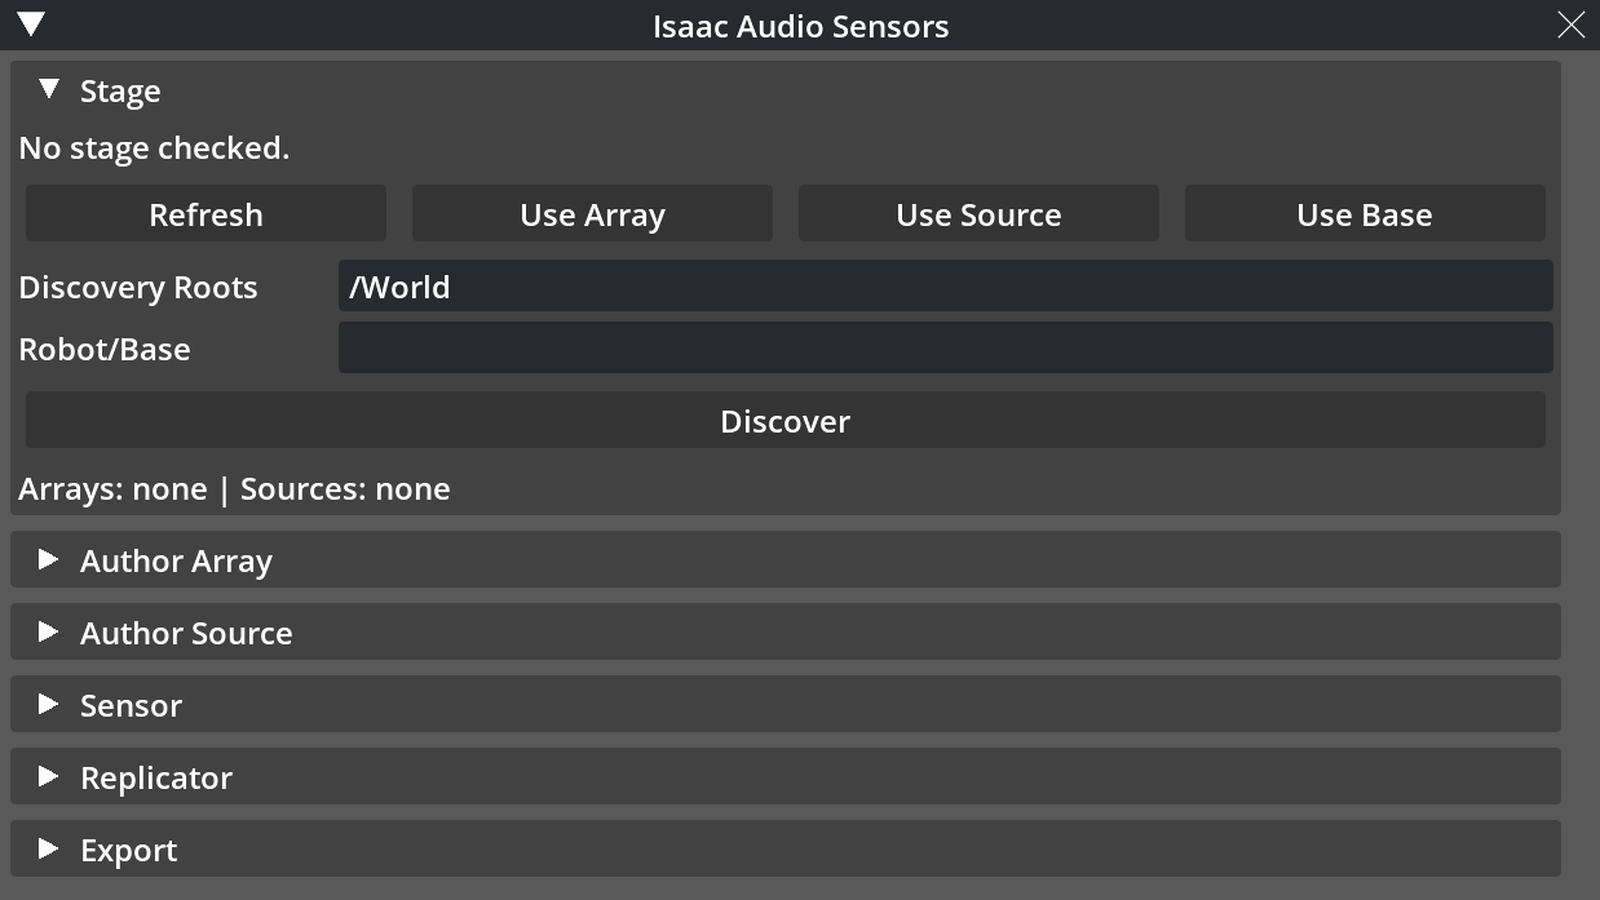
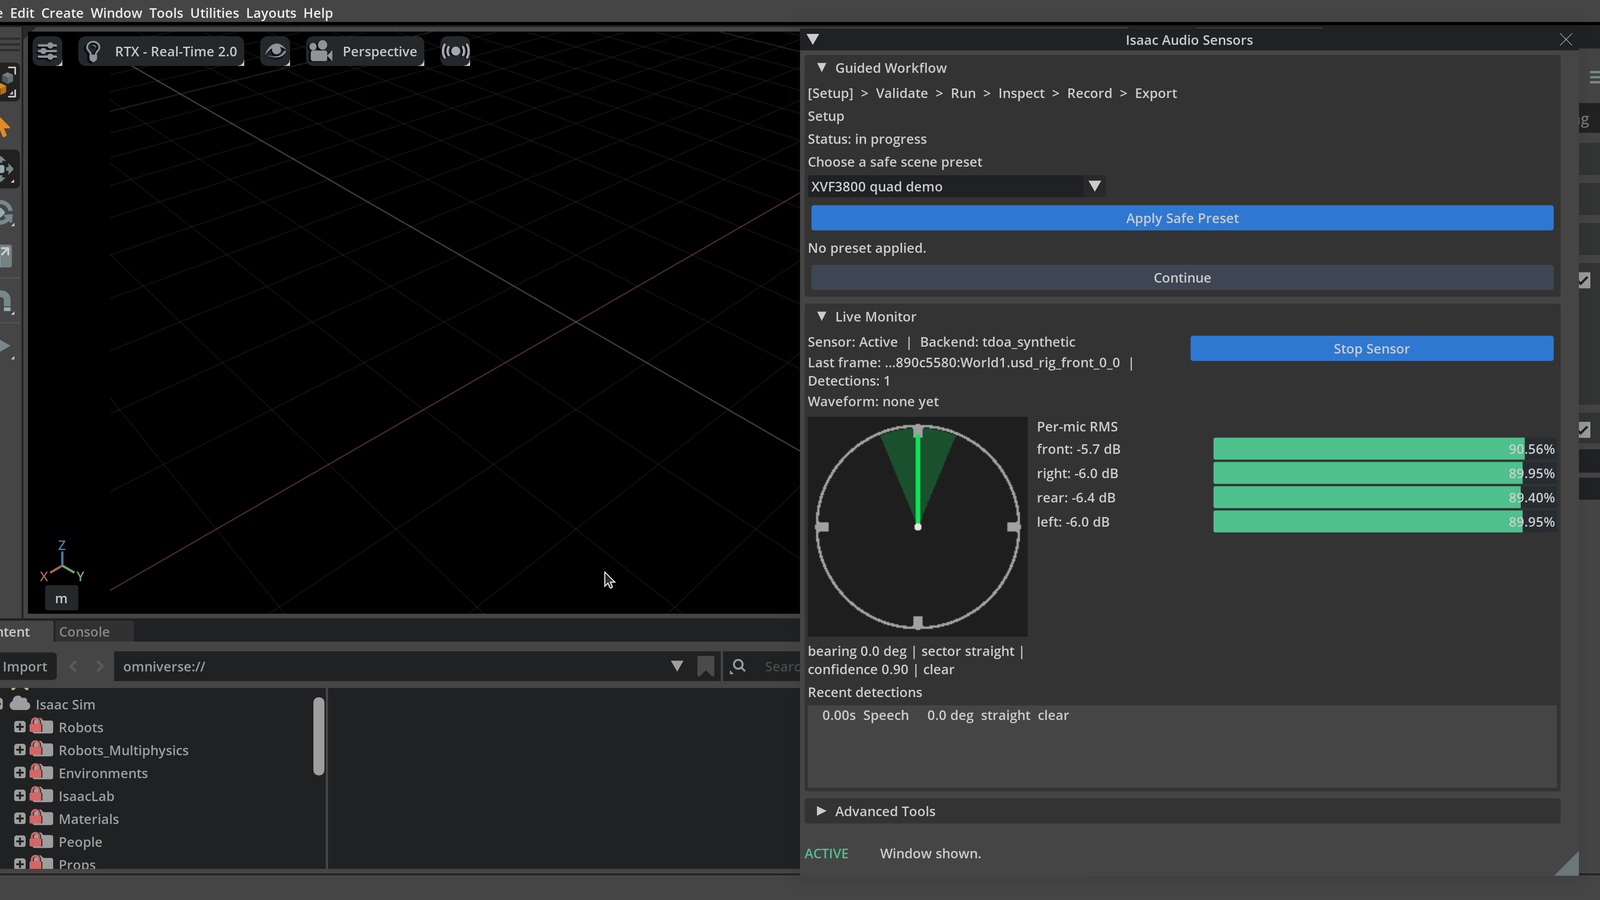
Document and preview redesigned Kit UI

diff --git a/tools/smoke/live_omniverse_extension_ux.py b/tools/smoke/live_omniverse_extension_ux.py
@@ -309,7 +309,7 @@ def main() -> int:
             extension_id=EXTENSION_ID,
         )
         evidence["ui_editable_model_probe"] = _probe_ui_editable_models(controller)
-        evidence["ui_invalid_numeric_probe"] = _probe_ui_invalid_numeric(controller)
+        evidence["ui_numeric_widget_probe"] = _probe_ui_numeric_widgets(controller)
         evidence["export_latest_without_frame"] = _probe_export_latest_without_frame(
             controller
         )
@@ -1483,14 +1483,14 @@ def _probe_ui_editable_models(controller: ExtensionController) -> dict[str, Any]
         or object_path is None
     ):
         return {"status": "failed", "reason": "expected editable fields missing"}
-    duration.model.set_value("10.0")
-    position_x.model.set_value("2.0")
-    position_y.model.set_value("0.0")
-    position_z.model.set_value("0.0")
-    local_offset_x.model.set_value("0.0")
-    local_offset_y.model.set_value("0.0")
-    local_offset_z.model.set_value("0.0")
-    sample_rate.model.set_value("44100")
+    duration.model.set_value(10.0)
+    position_x.model.set_value(2.0)
+    position_y.model.set_value(0.0)
+    position_z.model.set_value(0.0)
+    local_offset_x.model.set_value(0.0)
+    local_offset_y.model.set_value(0.0)
+    local_offset_z.model.set_value(0.0)
+    sample_rate.model.set_value(44100)
     source_id.model.set_value("speaker_a")
     object_path.model.set_value("/World/Oven")
     window.sync_state_from_widgets()
@@ -1518,40 +1518,46 @@ def _probe_ui_editable_models(controller: ExtensionController) -> dict[str, Any]
     }
 
 
-def _probe_ui_invalid_numeric(controller: ExtensionController) -> dict[str, Any]:
+def _probe_ui_numeric_widgets(controller: ExtensionController) -> dict[str, Any]:
     window = _reference_ui_window(controller)
     if window is None:
         return {"status": "failed", "reason": "ui_window_unavailable"}
     duration = window._float_fields.get("source_duration_s")
-    if duration is None:
-        return {"status": "failed", "reason": "source_duration_s field missing"}
-    previous = _model_string(duration.model)
-    called = {"value": False}
-
-    def _callback() -> str:
-        called["value"] = True
-        return "called"
-
-    duration.model.set_value("not-a-number")
-    window._action(_callback)()
-    error = controller.state.error_message
+    sample_rate = window._int_fields.get("sample_rate_hz")
+    if duration is None or sample_rate is None:
+        return {"status": "failed", "reason": "numeric fields missing"}
+    previous_duration = controller.state.source_duration_s
+    previous_sample_rate = controller.state.sample_rate_hz
     restore_error = None
     try:
-        duration.model.set_value(previous or "10.0")
+        duration.model.set_value(2.5)
+        sample_rate.model.set_value(48000)
+        window.sync_state_from_widgets()
+        observed_duration = controller.state.source_duration_s
+        observed_sample_rate = controller.state.sample_rate_hz
+        duration.model.set_value(previous_duration)
+        sample_rate.model.set_value(previous_sample_rate)
         window.sync_state_from_widgets()
         window.refresh_labels()
     except Exception as exc:  # noqa: BLE001 - evidence should keep moving.
         restore_error = f"{type(exc).__name__}: {exc}"
+        observed_duration = None
+        observed_sample_rate = None
+    duration_kind = type(duration).__name__
+    sample_rate_kind = type(sample_rate).__name__
     passed = (
-        called["value"] is False
-        and error is not None
-        and "UI input failed" in error
+        observed_duration == 2.5
+        and observed_sample_rate == 48000
+        and "FloatDrag" in duration_kind
+        and "IntDrag" in sample_rate_kind
         and restore_error is None
     )
     return {
         "status": "passed" if passed else "failed",
-        "callback_called": called["value"],
-        "error_message": error,
+        "duration_widget_kind": duration_kind,
+        "sample_rate_widget_kind": sample_rate_kind,
+        "observed_duration": observed_duration,
+        "observed_sample_rate": observed_sample_rate,
         "restore_error": restore_error,
     }
 
@@ -2038,14 +2044,6 @@ def _combo_model_values(window: Any) -> dict[str, dict[str, Any]]:
             "state_value": getattr(window.controller.state, attr_name),
         }
     return values
-
-
-def _model_string(model: Any) -> str:
-    if hasattr(model, "get_value_as_string"):
-        return str(model.get_value_as_string())
-    if hasattr(model, "as_string"):
-        return str(model.as_string)
-    return str(getattr(model, "value", ""))
 
 
 def _combo_index(model: Any) -> int:
@@ -2948,7 +2946,7 @@ def _validate_live_extension_outputs(
         "package_origin",
         "dependency_origins",
         "ui_editable_model_probe",
-        "ui_invalid_numeric_probe",
+        "ui_numeric_widget_probe",
         "export_latest_without_frame",
         "config_roundtrip_probe",
         "instruments",

diff --git a/src/isaac_audio_sensors/kit/window.py b/src/isaac_audio_sensors/kit/window.py
@@ -74,7 +74,7 @@ class OmniReferenceWindow:
         """Build a compact task-oriented Kit window."""
 
         ui = self.ui
-        self.window = ui.Window(OMNI_WINDOW_TITLE, width=680, height=820)
+        self.window = ui.Window(OMNI_WINDOW_TITLE, width=680, height=740)
         _set_window_visibility_changed_fn(
             self.window,
             self.controller.handle_window_visibility_changed,
@@ -212,7 +212,7 @@ class OmniReferenceWindow:
         )
         self._set_label(
             "live_frame",
-            f"Last frame: {state.latest_frame_id or 'none'}  |  "
+            f"Last frame: {self._compact_identifier(state.latest_frame_id)}  |  "
             f"Detections: {state.latest_detection_count}",
         )
         self._set_label(
@@ -283,10 +283,10 @@ class OmniReferenceWindow:
             with suppress(Exception):
                 status_icon.style = {
                     "color": (
-                        0xFFEF6A61
+                        0xFF616AEF
                         if state.error_message
                         else (
-                            0xFF4FC18C if state.sensor_running else 0xFFE4B95B
+                            0xFF8CC14F if state.sensor_running else 0xFF5BB9E4
                         )
                     )
                 }
@@ -440,7 +440,16 @@ class OmniReferenceWindow:
     @staticmethod
     def _compact_status(message: str, limit: int = 150) -> str:
         summary = " ".join(str(message).split())
-        return summary if len(summary) <= limit else summary[: limit - 1] + "…"
+        return summary if len(summary) <= limit else summary[: limit - 3] + "..."
+
+    @staticmethod
+    def _compact_identifier(value: str | None, limit: int = 36) -> str:
+        identifier = value or "none"
+        return (
+            identifier
+            if len(identifier) <= limit
+            else "..." + identifier[-(limit - 3) :]
+        )
 
     @contextmanager
     def _section(
@@ -597,13 +606,14 @@ class OmniReferenceWindow:
     ) -> Any:
         self._buttons.append(label)
         colors = {
-            "primary": 0xFF2E78D2,
-            "danger": 0xFFB8473D,
-            "secondary": 0xFF3D4652,
+            "primary": 0xFFD2782E,
+            "danger": 0xFF3D47B8,
+            "secondary": 0xFF52463D,
         }
         return self.ui.Button(
             label,
             clicked_fn=self._action(callback),
+            height=28,
             style={"Button": {"background_color": colors[kind]}},
         )
 

diff --git a/src/isaac_audio_sensors/kit/sections.py b/src/isaac_audio_sensors/kit/sections.py
@@ -224,7 +224,7 @@ def build_guided_section(window: OmniReferenceWindow) -> None:
 
     def _refresh() -> None:
         current = workflow.current_stage
-        crumbs = "  →  ".join(
+        crumbs = "  >  ".join(
             f"[{stage.value.title()}]"
             if stage is current
             else stage.value.title()
@@ -741,7 +741,16 @@ def build_instruments_section(window: OmniReferenceWindow) -> None:
                 for _ in range(METER_MAX_ROWS):
                     with ui.HStack(spacing=4, height=0) as meter_row:
                         label = ui.Label("", width=150)
-                        bar = progress_cls() if progress_cls is not None else None
+                        bar = (
+                            progress_cls(
+                                style={
+                                    "background_color": 0xFF312C27,
+                                    "color": 0xFF8CC14F,
+                                }
+                            )
+                            if progress_cls is not None
+                            else None
+                        )
                     meter_row.visible = False
                     meter_rows.append({"row": meter_row, "label": label, "bar": bar})
         empty_label = ui.Label("", word_wrap=True)
@@ -759,7 +768,7 @@ def build_instruments_section(window: OmniReferenceWindow) -> None:
             with ui.VStack(spacing=1, height=0):
                 _build_timeline_rows()
         else:
-            with scrolling_cls(height=140), ui.VStack(spacing=1, height=0):
+            with scrolling_cls(height=72), ui.VStack(spacing=1, height=0):
                 _build_timeline_rows()
     window._instruments = {
         "compass": compass_image,

diff --git a/knowledge/wiki/topics/isaac-sim-and-kit.md b/knowledge/wiki/topics/isaac-sim-and-kit.md
@@ -42,21 +42,35 @@ The entrypoint exposes its `controller` and has no duplicate sensor, authoring, 
 
 Shutdown independently cancels an active recording as incomplete, stops audition, Replicator, and the sensor, clears debug/frame state, detaches workflow/window callbacks, and releases update, stage, reset, hotkey, menu, and action registrations even if one cleanup fails.
 
+## Native Kit Window
+
+The native `omni.ui` window has exactly three top-level areas: Guided Workflow, Live Monitor, and Advanced Tools. Guided and Live Monitor are open on first use, while Advanced Tools is closed. Guided and Advanced are mutually exclusive accordions; Live Monitor remains independently available as the primary operating surface.
+
+![Isaac Audio Sensors native Kit window](../../../exts/isaac_audio_sensors.omni/data/preview.png)
+
+The fixed status strip remains visible below the scrollable content. It reports short ready, active, warning, or error summaries; exact diagnostics stay inside Advanced Tools. View code reads controller state and invokes controller actions only. It does not access USD, files, or recording internals directly.
+
 ## Guided Workflow
 
 The guided path is `Setup -> Validate -> Run -> Inspect -> Record -> Export`.
 
-Setup applies a maintained safe preset and stage bindings; Validate runs stage, backend, device, source, array, room, attachment, calibration, and capability checks; Run starts the real sensor lifecycle; Inspect requires explicit user acceptance of the instrument output; Record writes a generic session; Export validates, splits when requested, and inventories the result. Capability validation refreshes stale cached facts within the same pass.
+Only the current step is expanded. It exposes one primary action, with Back and recovery actions secondary. Setup applies a maintained safe preset and stage bindings; Validate runs stage, backend, device, source, array, room, attachment, calibration, and capability checks; Run and Inspect reuse the same canonical sensor control as Live Monitor; Record exposes Start Recording, then Stop & Finalize, with Cancel separate; Export validates, splits when requested, and inventories the result. Capability validation refreshes stale cached facts within the same pass.
+
+Guided is open by default and stores its local collapse preference at `/persistent/exts/isaac_audio_sensors.omni/ui/guided_collapsed`. Missing `carb.settings` falls back safely to the default. `guided_mode_enabled=False` still removes Guided completely, and the local preference is not part of exported configuration.
 
 Simulator reset starts a new episode, and partial or failed recording output is not promoted as a complete session.
 
 The headless path is `isaac_audio_sensors.kit.headless.HeadlessGuidedSession`; callers inject an `ExtensionController`, and the CLI owns construction of the default controller.
 
-## Expert Sections
+## Live Monitor
 
-Stage selects discovery roots and current array, source, object, or base prims; Array and Source author the corresponding metadata and transforms; Sensor Control configures backend, device, update period, event bound, ambiguity, output, and lifecycle.
+Live Monitor shows sensor state, backend, the latest frame, detection count, and waveform availability. One contextual button starts or stops the sensor. The live instruments show the bearing compass, up to eight microphone RMS meters, and no more than three recent detections, with explicit empty states before frame or waveform data exists.
 
-Room configures the fixed acoustic room and anchor; Instruments show bearing, per-microphone RMS, and detection history; Audio Output previews waveforms and spectrograms and auditions exported WAVs.
+## Advanced Tools
+
+Advanced Tools contains the specialist controls for stage and selection, array, source, sensor settings and debug, room, audio output, Replicator, export, and configuration. Stage binding uses one `Bind selection as` selector and `Bind Selected`; position authoring uses a preset selector and `Apply Position Preset`. Known profiles and rigs are selected with combo boxes and validated by Apply rather than duplicate selection buttons.
+
+Numeric settings use drag widgets, enumerated choices use combo boxes, and string fields remain limited to identifiers, paths, and free text. All maintained controller capabilities remain reachable here without duplicating lifecycle controls that are simultaneously visible in Live Monitor.
 
 Replicator controls the optional Omniverse writer; Export writes the latest frame, JSONL streams, and reusable binding/configuration JSON.
 
@@ -83,3 +97,7 @@ If start/update fails, read the exact validation finding for backend, dependency
 If overlays or OmniGraph are unavailable, distinguish optional Kit-service absence from sensor failure; frame JSON and structured diagnostics remain the primary contract.
 
 If Replicator is unavailable, use package JSON/JSONL or the generic session recorder; a Replicator blocker must not be reported as a core package failure.
+
+## Version Notes
+
+- 2026-08-24: Rebuilt the native Kit UI around the three task-oriented areas, added persistent Guided collapse behavior, promoted Live Monitor to the canonical operating surface, and moved specialist controls into Advanced Tools without changing core APIs or serialized contracts.

diff --git a/knowledge/wiki/log.md b/knowledge/wiki/log.md
@@ -193,3 +193,11 @@ Recorded the successful TestPyPI rehearsal, immutable GitHub release, exact PyPI
 ## 2026-08-21 — lint: v2.0.0 publication status
 
 Verified canonical ownership, index coverage, internal links, immutable raw content, final release metadata, public GitHub and PyPI state, version synchronization, release tests, and Markdown whitespace while keeping NVIDIA discovery explicitly pending.
+
+## 2026-08-24 — update: Native Kit UI redesign
+
+Recorded the three-area native window, compact guided workflow, persistent expert collapse preference, canonical live monitor, consolidated advanced tools, fixed status strip, real Isaac GUI preview, and unchanged controller and serialization contracts.
+
+## 2026-08-24 — lint: Native Kit UI redesign
+
+Verified canonical ownership, index coverage, internal links, immutable raw content, current UI and controller contracts, the real preview, deterministic checks, RTX 4090 live Kit behavior, Ruff, version synchronization, and Markdown whitespace.

diff --git a/exts/isaac_audio_sensors.omni/docs/CHANGELOG.md b/exts/isaac_audio_sensors.omni/docs/CHANGELOG.md
@@ -2,6 +2,7 @@
 
 ## 2.0.0 - 2026-08-21
 
+- Post-release, unreleased: redesigned the native Kit window around Guided Workflow, Live Monitor, and Advanced Tools, with persistent expert-mode collapse state and a fixed status strip.
 - Consolidated the maintained Kit workflow and runtime services.
 - Standardized the standalone Linux archive for the NVIDIA Community Registry.
 - Bundled the room-acoustics and FLAC runtime dependencies without shadowing Kit's NumPy.
